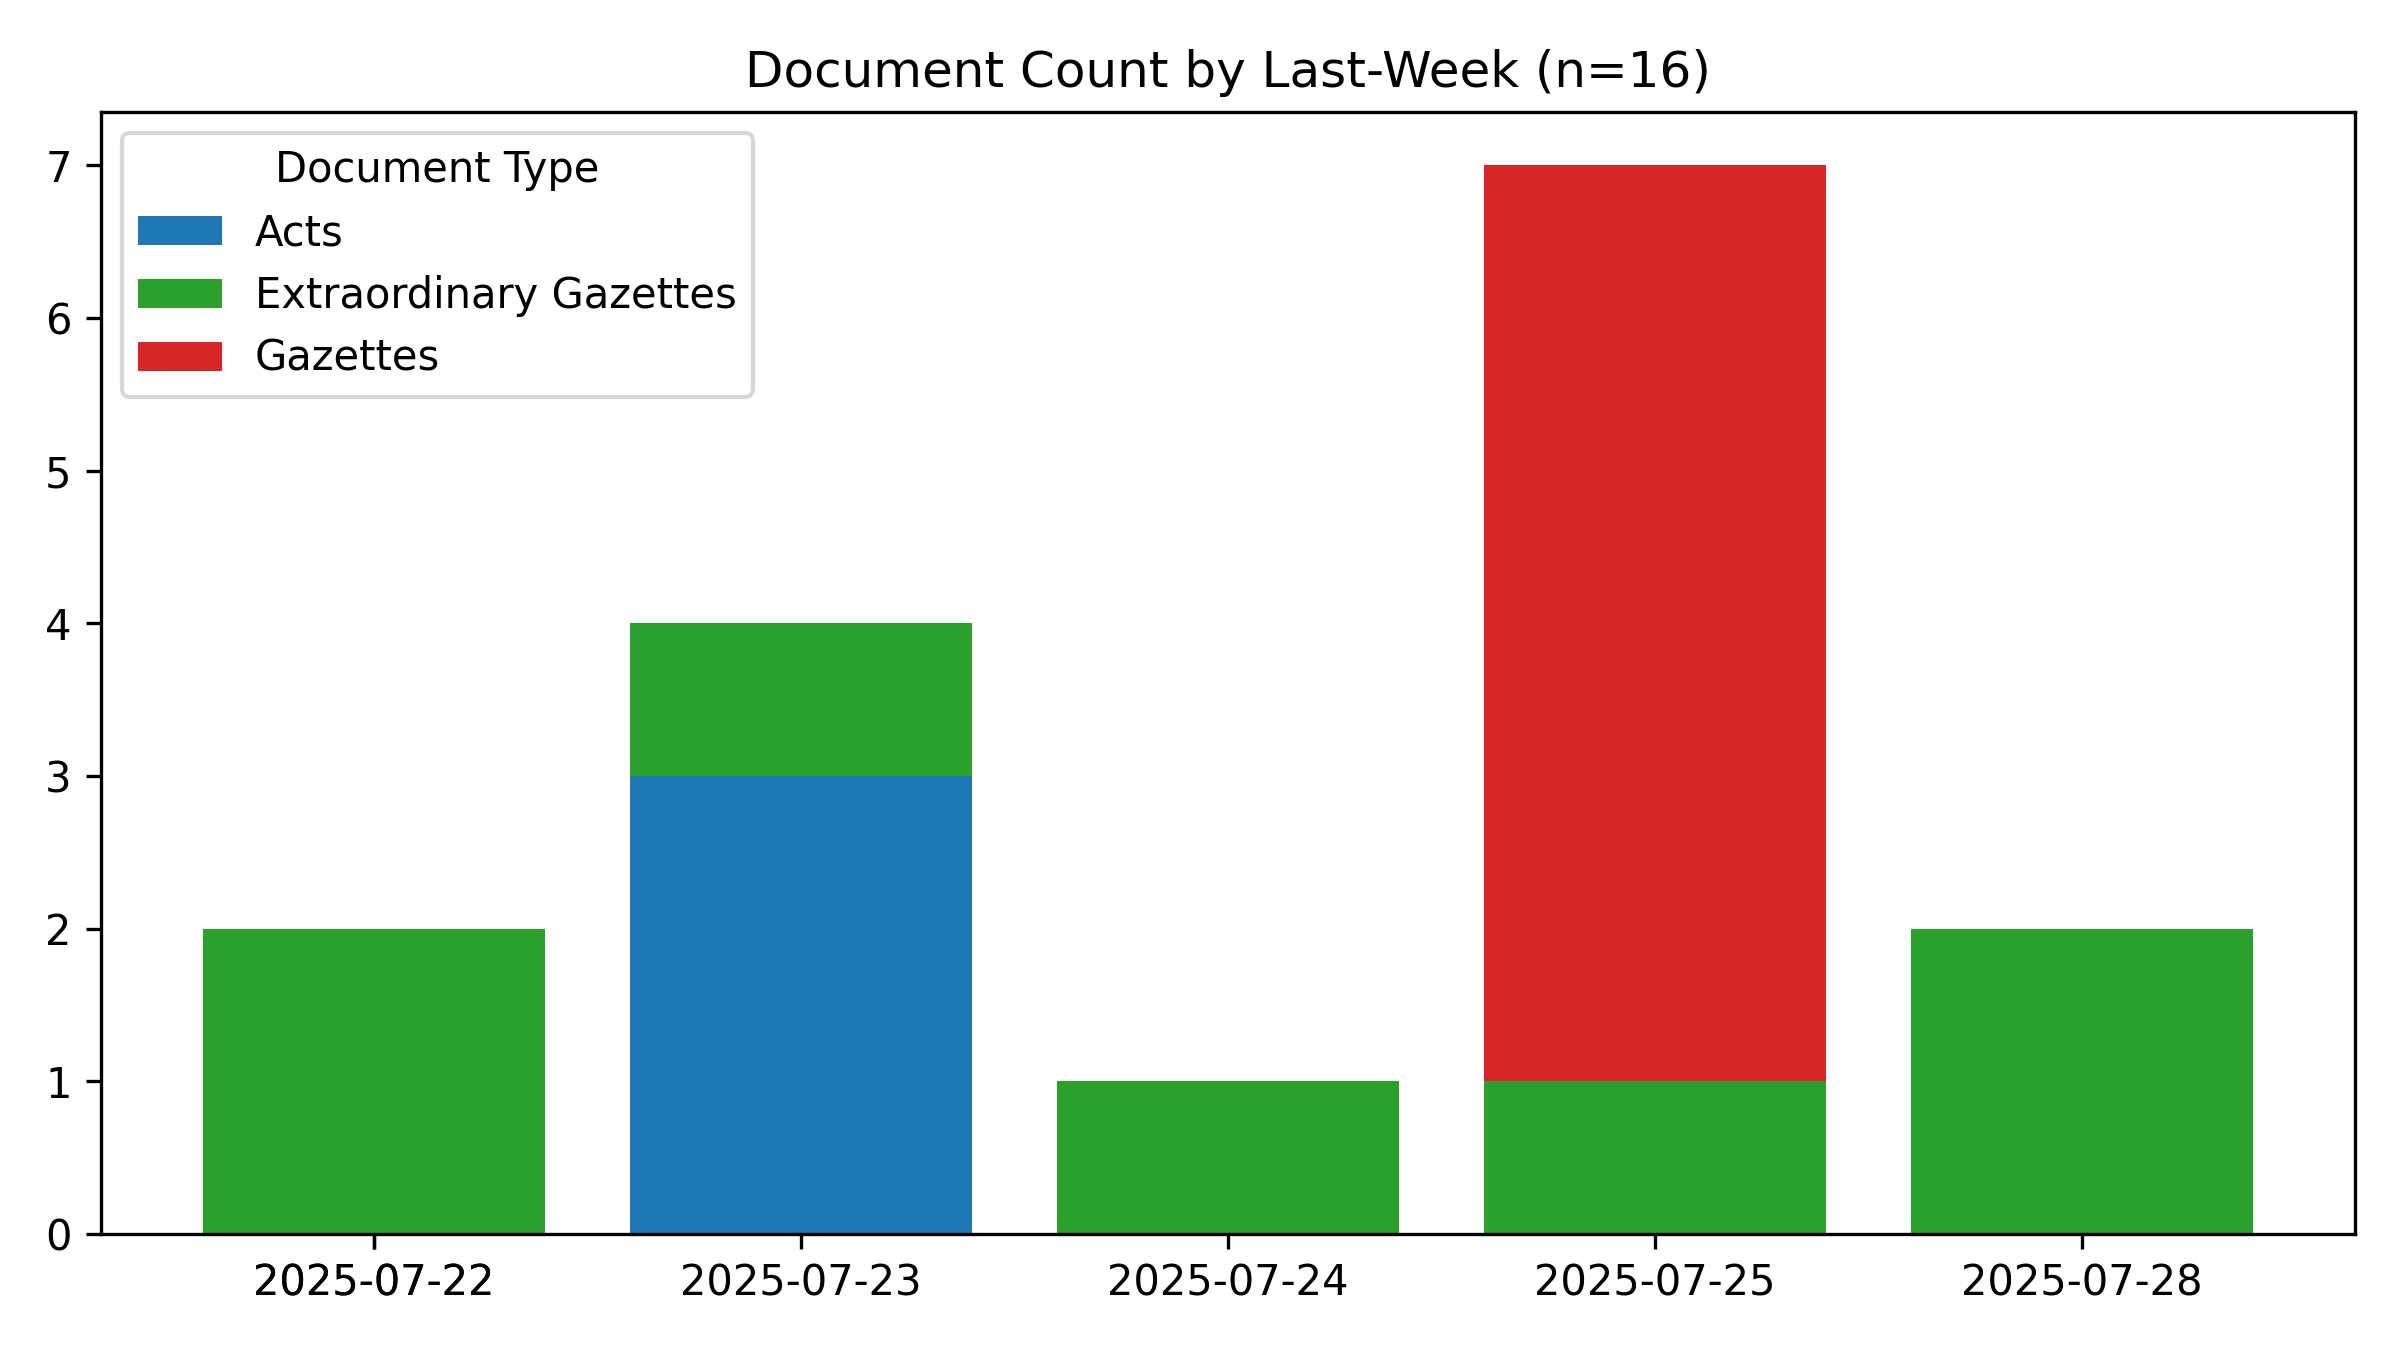
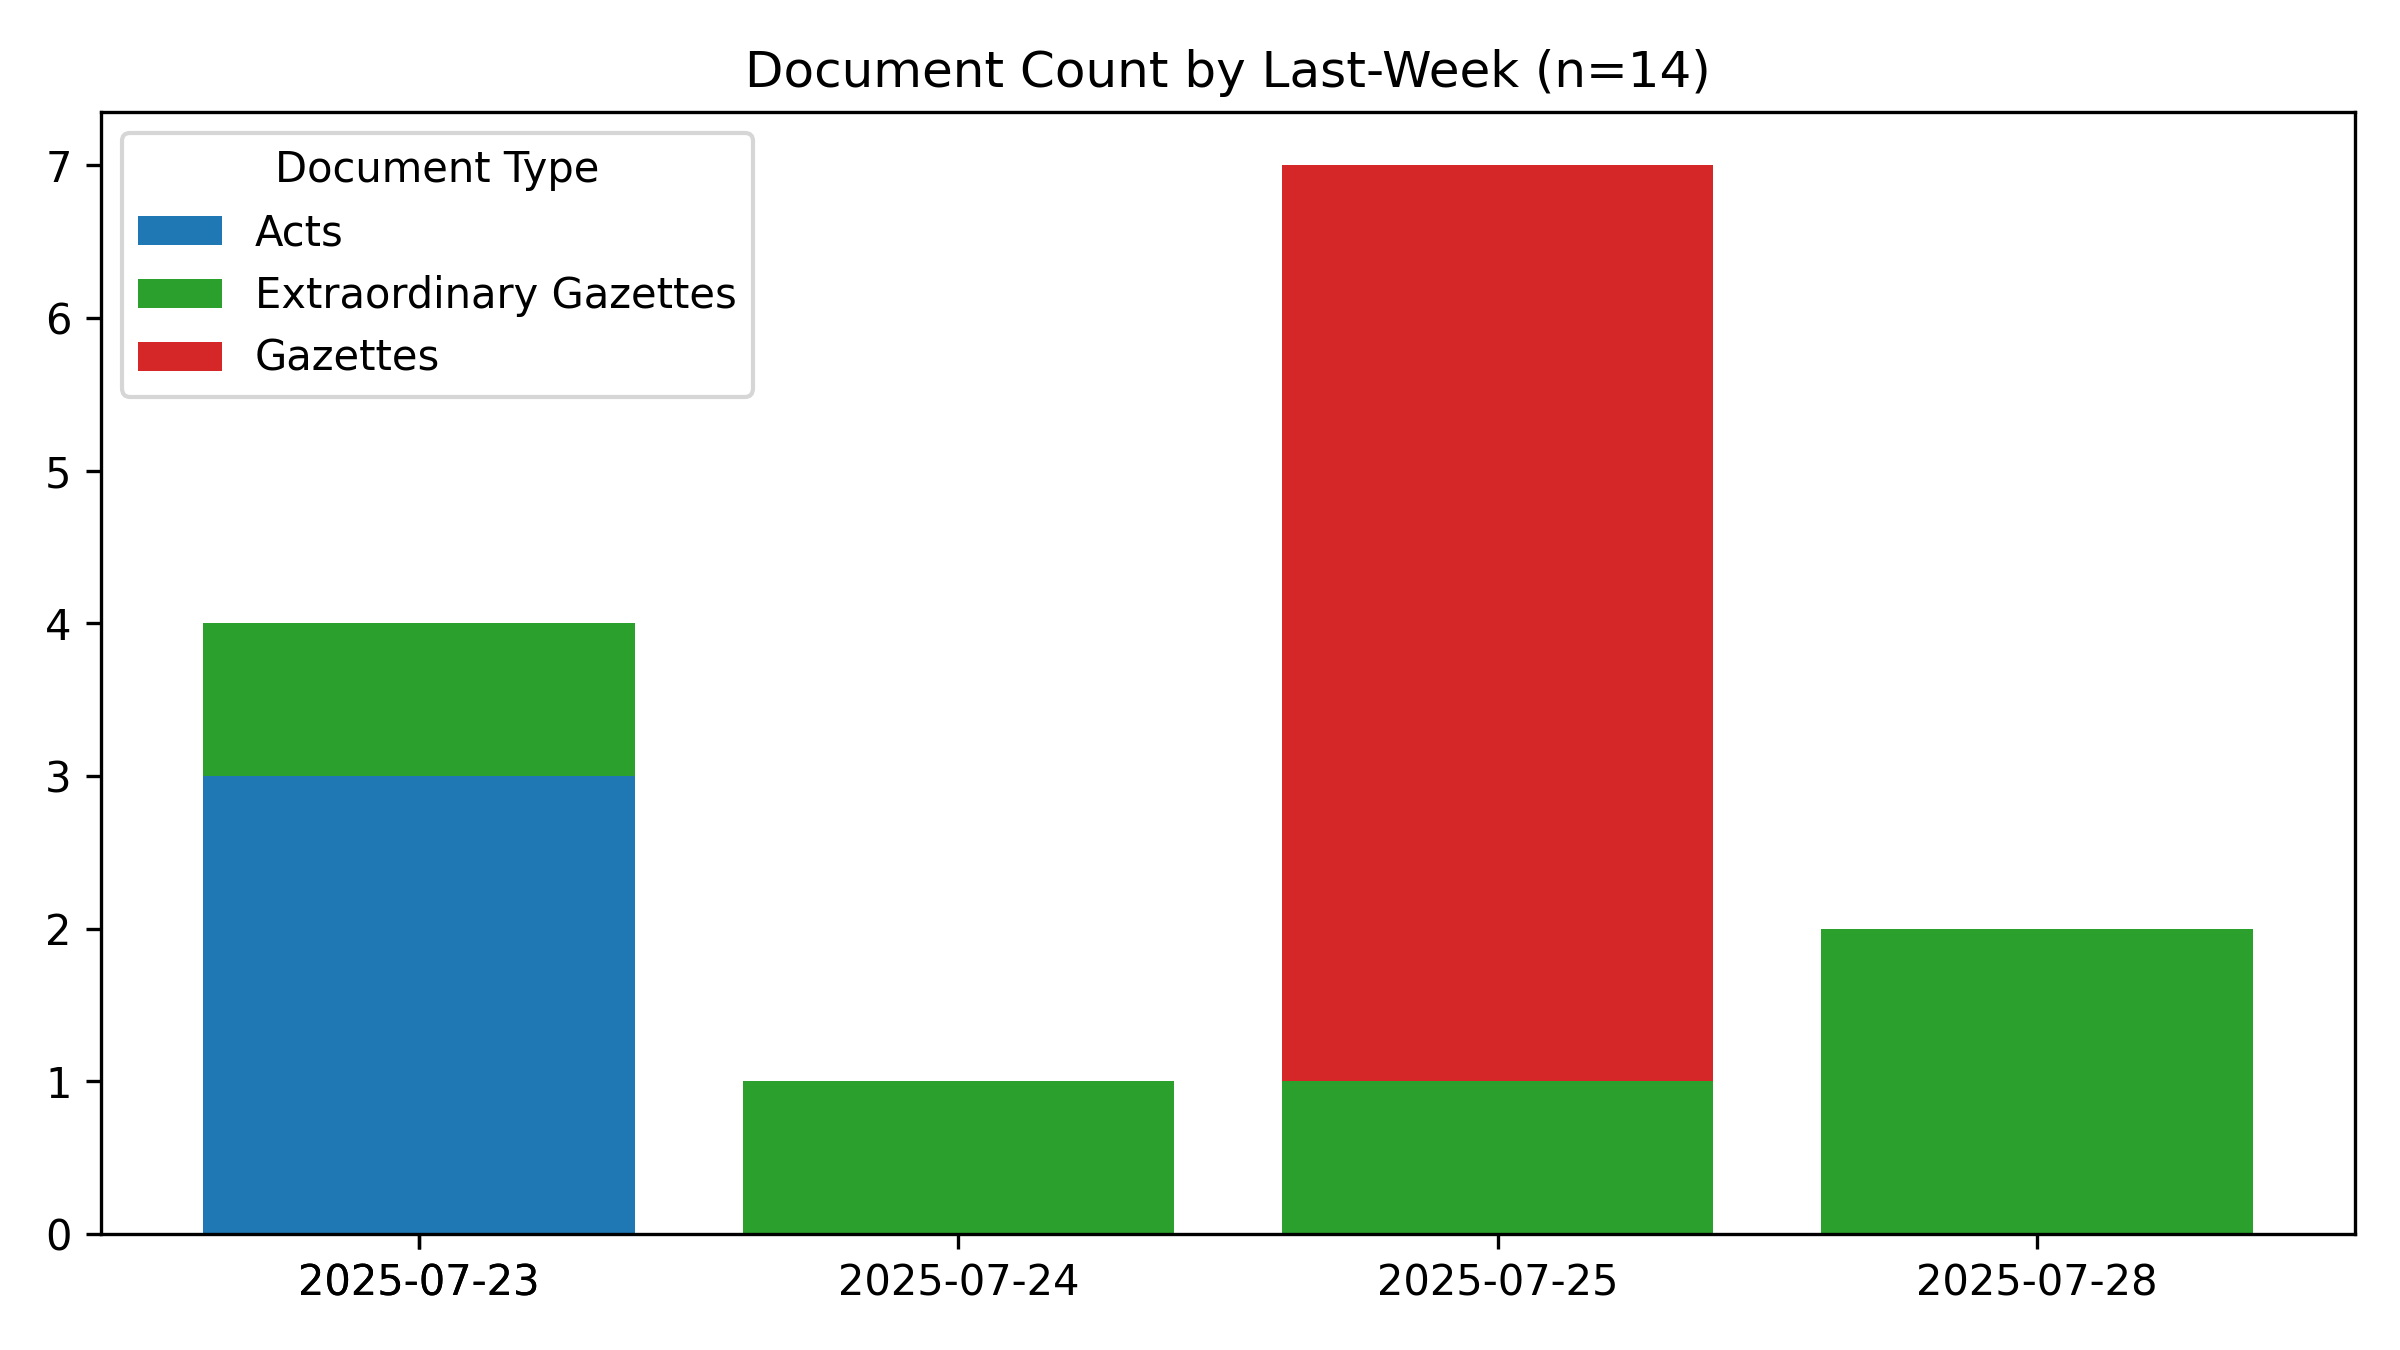
🤖 [data_scraper.yml] 2025-07-30-0001

Changed region(s): [[0.0625, 0.1244, 0.9375, 0.9644], [0.6875, 0.0311, 0.7188, 0.0622]]

diff --git a/README.md b/README.md
@@ -1,6 +1,6 @@
 # #SriLanka 🇱🇰 - Legal Documents #Dataset
 
-*Last Updated **2025-07-30 05:05:41**.*
+*Last Updated **2025-07-30 05:31:43**.*
 
 **44,154** documents (41.0 MB), from 1981-01-22 to 2025-07-28.
 
@@ -16,7 +16,7 @@ A collection of 📢 Gazettes, 🚨 Extraordinary Gazettes, 🏛 Acts, ✍
 
 #Legal #OpenData #GovTech
 
-📄 Currently, 95,321 PDFs (35.8 GB) for **33,754** documents (76.4%) have been downloaded. Final data size is estimated to be ~47 GB.
+📄 Currently, 95,536 PDFs (35.8 GB) for **33,826** documents (76.6%) have been downloaded. Final data size is estimated to be ~47 GB.
 
 ## 🆕 The Legal Documents App
 
@@ -45,7 +45,7 @@ For best results, use a desktop browser.
 
 ## Recent Documents (Published during the last 7 days)
 
-**16** Documents
+**14** Documents
 
 - 🚨 [2025-07-28] [Land Title Settlement Dept. - Kendaliyaddapaluwa, Mahara D/S Division, Gampaha District (7846)](https://github.com/nuuuwan/lk_legal_docs_data/tree/main/data/extra-gazettes/2025/2447-02)
 - 🚨 [2025-07-28] [Sri Lanka Customs - Rates of Exchange from 28.07.2025 to 03.08.2025](https://github.com/nuuuwan/lk_legal_docs_data/tree/main/data/extra-gazettes/2025/2447-01)
@@ -61,5 +61,3 @@ For best results, use a desktop browser.
 - 🏛 [2025-07-23] [National Minimum Wage of Workers (Amendment)](https://github.com/nuuuwan/lk_legal_docs_data/tree/main/data/acts/2025/11-2025)
 - 🏛 [2025-07-23] [Budgetary Relief Allowance of Workers (Amendment)](https://github.com/nuuuwan/lk_legal_docs_data/tree/main/data/acts/2025/10-2025)
 - 🏛 [2025-07-23] [Budgetary Relief Allowance of Workers (Amendment)](https://github.com/nuuuwan/lk_legal_docs_data/tree/main/data/acts/2025/09-2025)
-- 🚨 [2025-07-22] [Universities Act, No. 16 of 1978 Order under Section 25A Degree Awarding Institute Order](https://github.com/nuuuwan/lk_legal_docs_data/tree/main/data/extra-gazettes/2025/2446-36)
-- 🚨 [2025-07-22] [Department of Census and Statistics - National Consumer Price Index - June 2025](https://github.com/nuuuwan/lk_legal_docs_data/tree/main/data/extra-gazettes/2025/2446-35)
